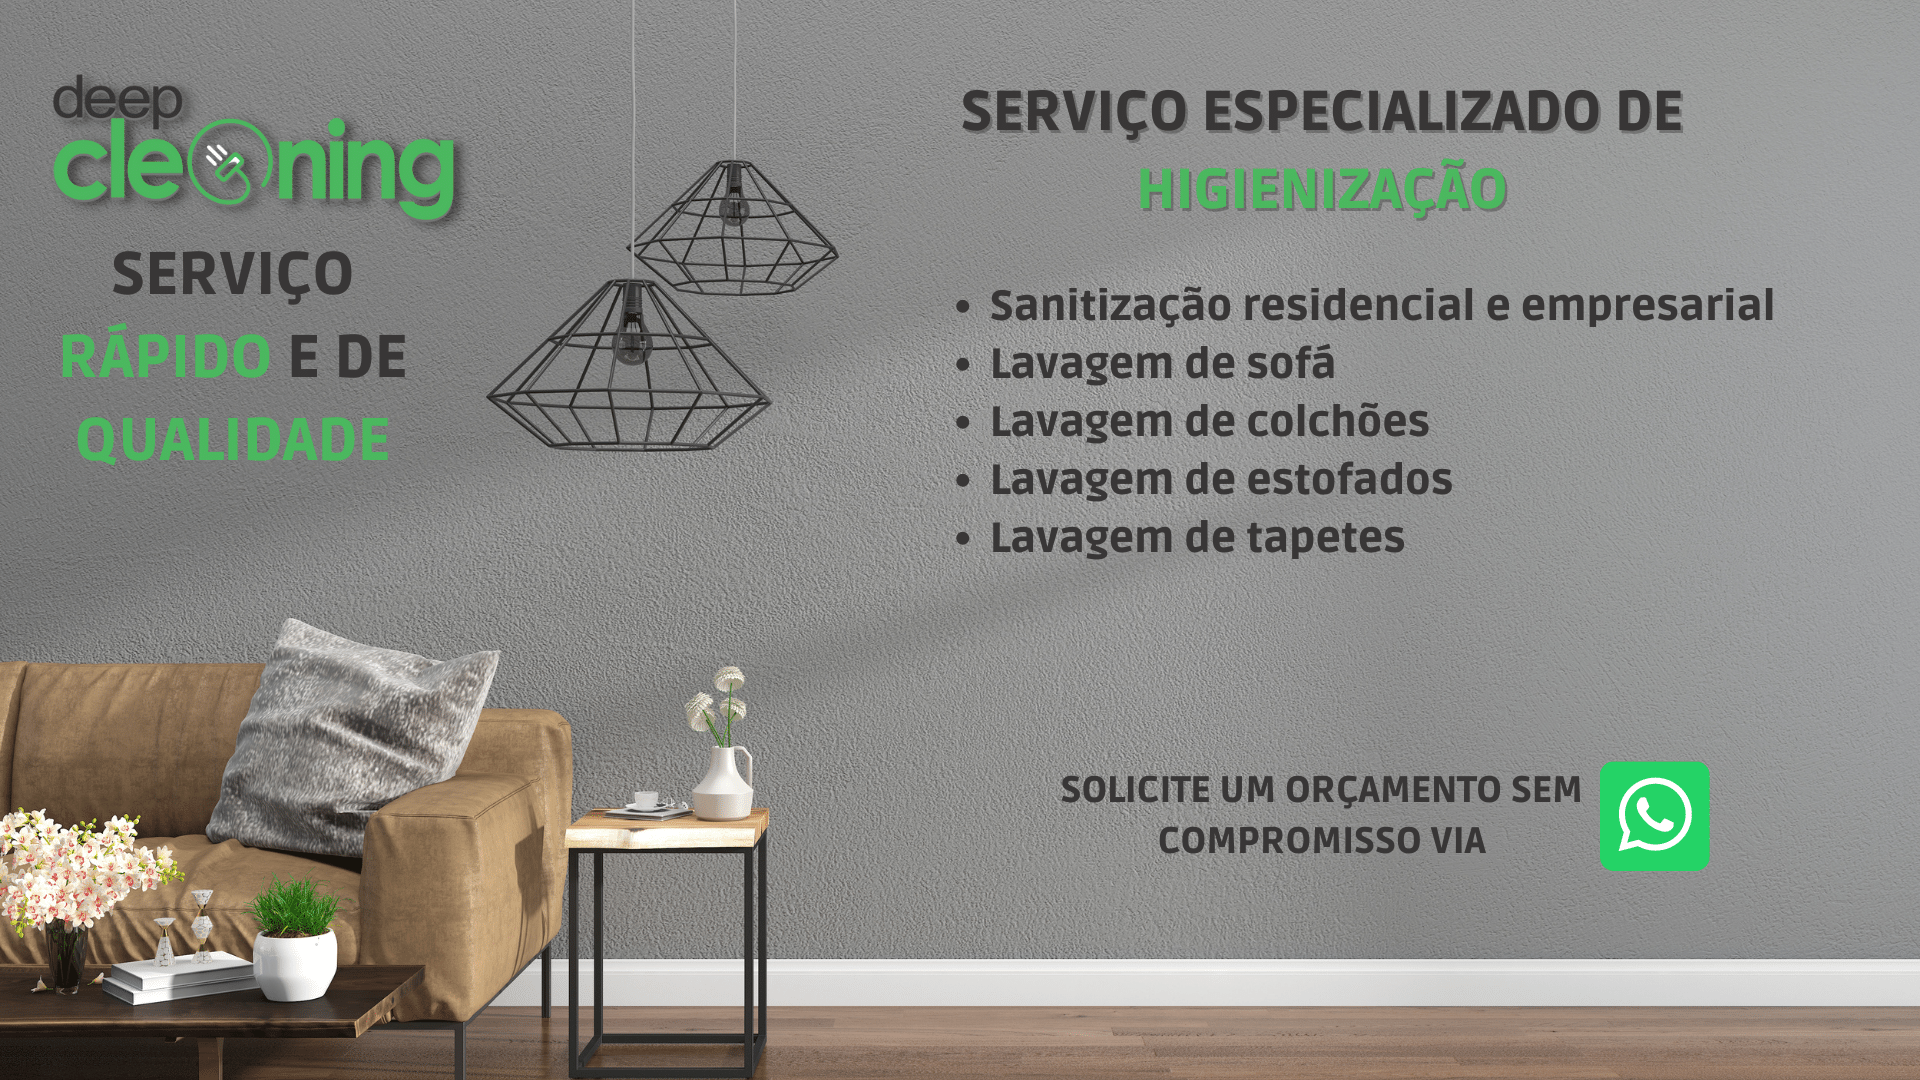
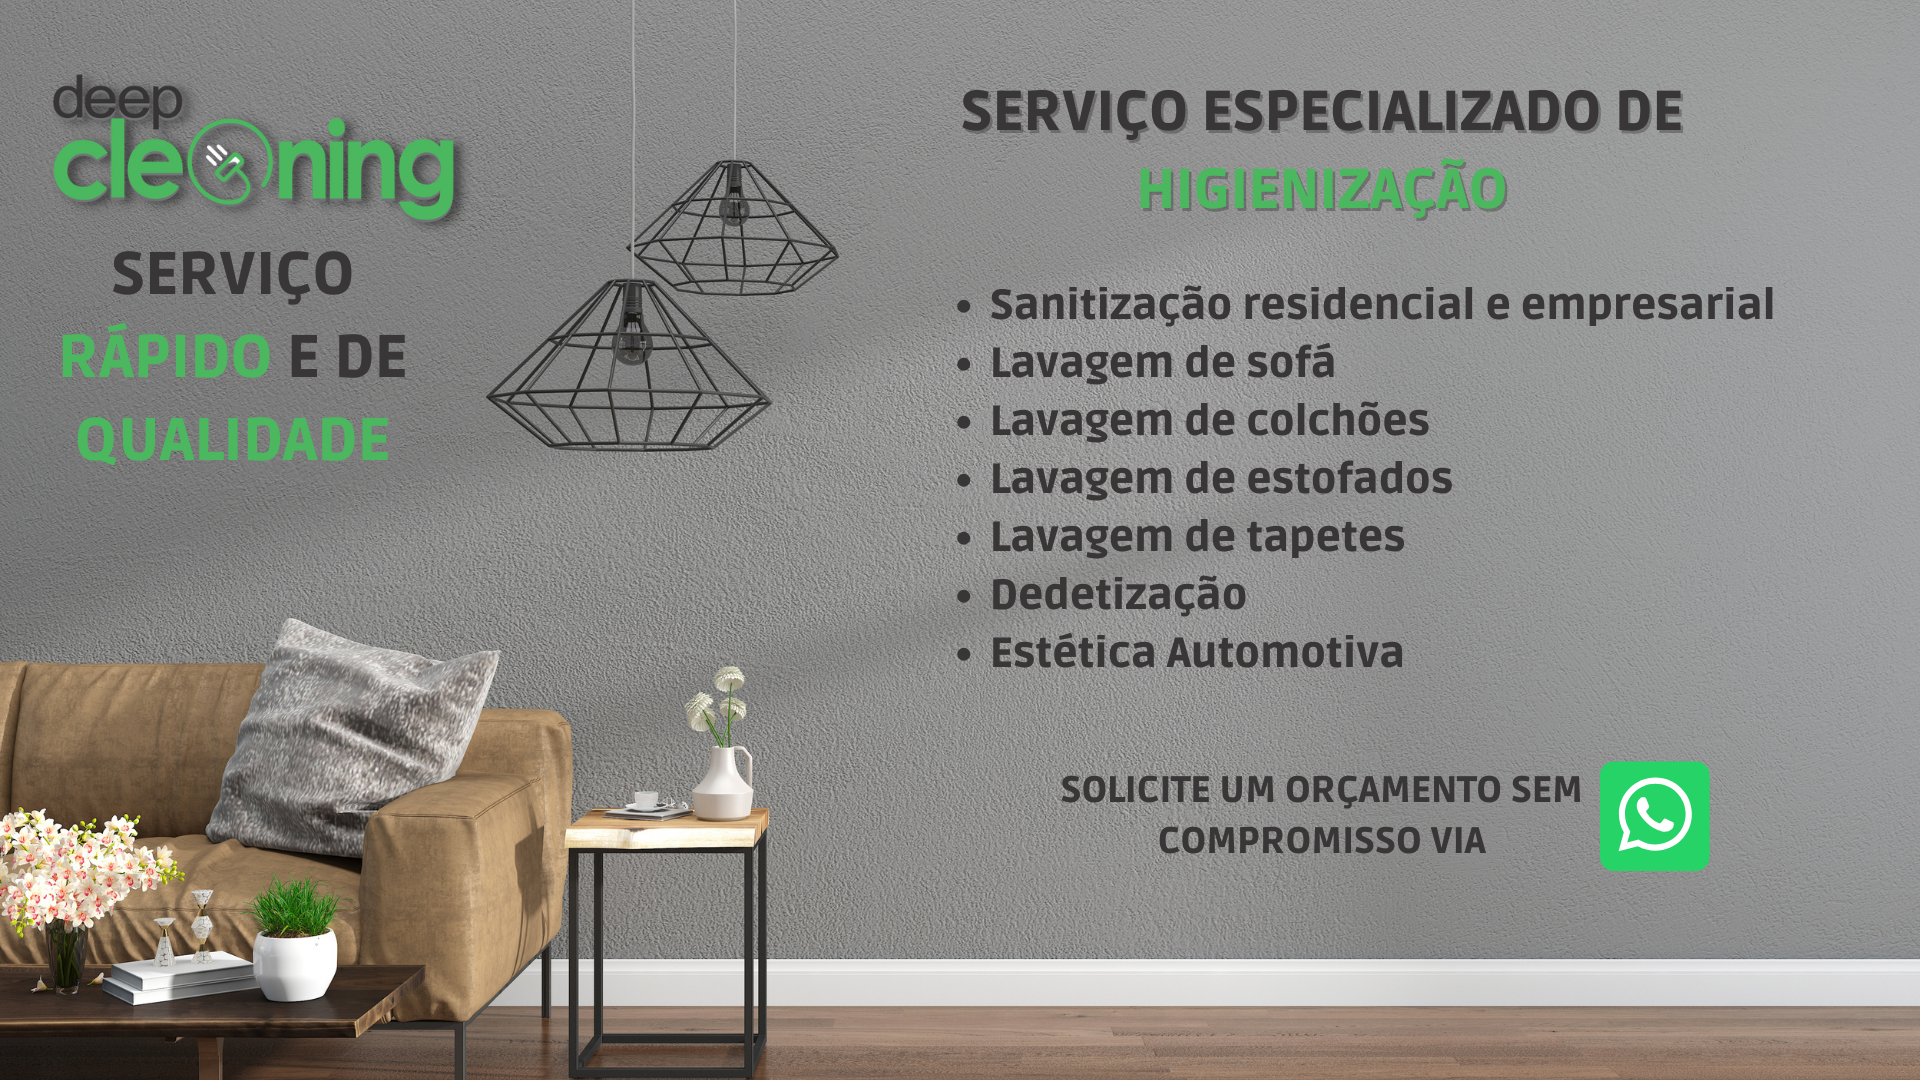
atualizacao do servicos

diff --git a/src/app/modules/faq/faq.component.html b/src/app/modules/faq/faq.component.html
@@ -26,10 +26,12 @@
         <div class="accordion-body text-muted">
           <ul>
             <li>Sanitização residencial e empresarial</li>
-            <li>Lavagem de sofá</li>
-            <li>Lavagem de colchões</li>
-            <li>Lavagem de estofados</li>
-            <li>Lavagem de tapetes</li>
+            <li>Lavagem de Sofá</li>
+            <li>Lavagem de Colchões</li>
+            <li>Lavagem de Estofados</li>
+            <li>Lavagem de Tapetes</li>
+            <li>Dedetização</li>
+            <li>Estética Automotiva</li>
           </ul>
         </div>
       </div>
